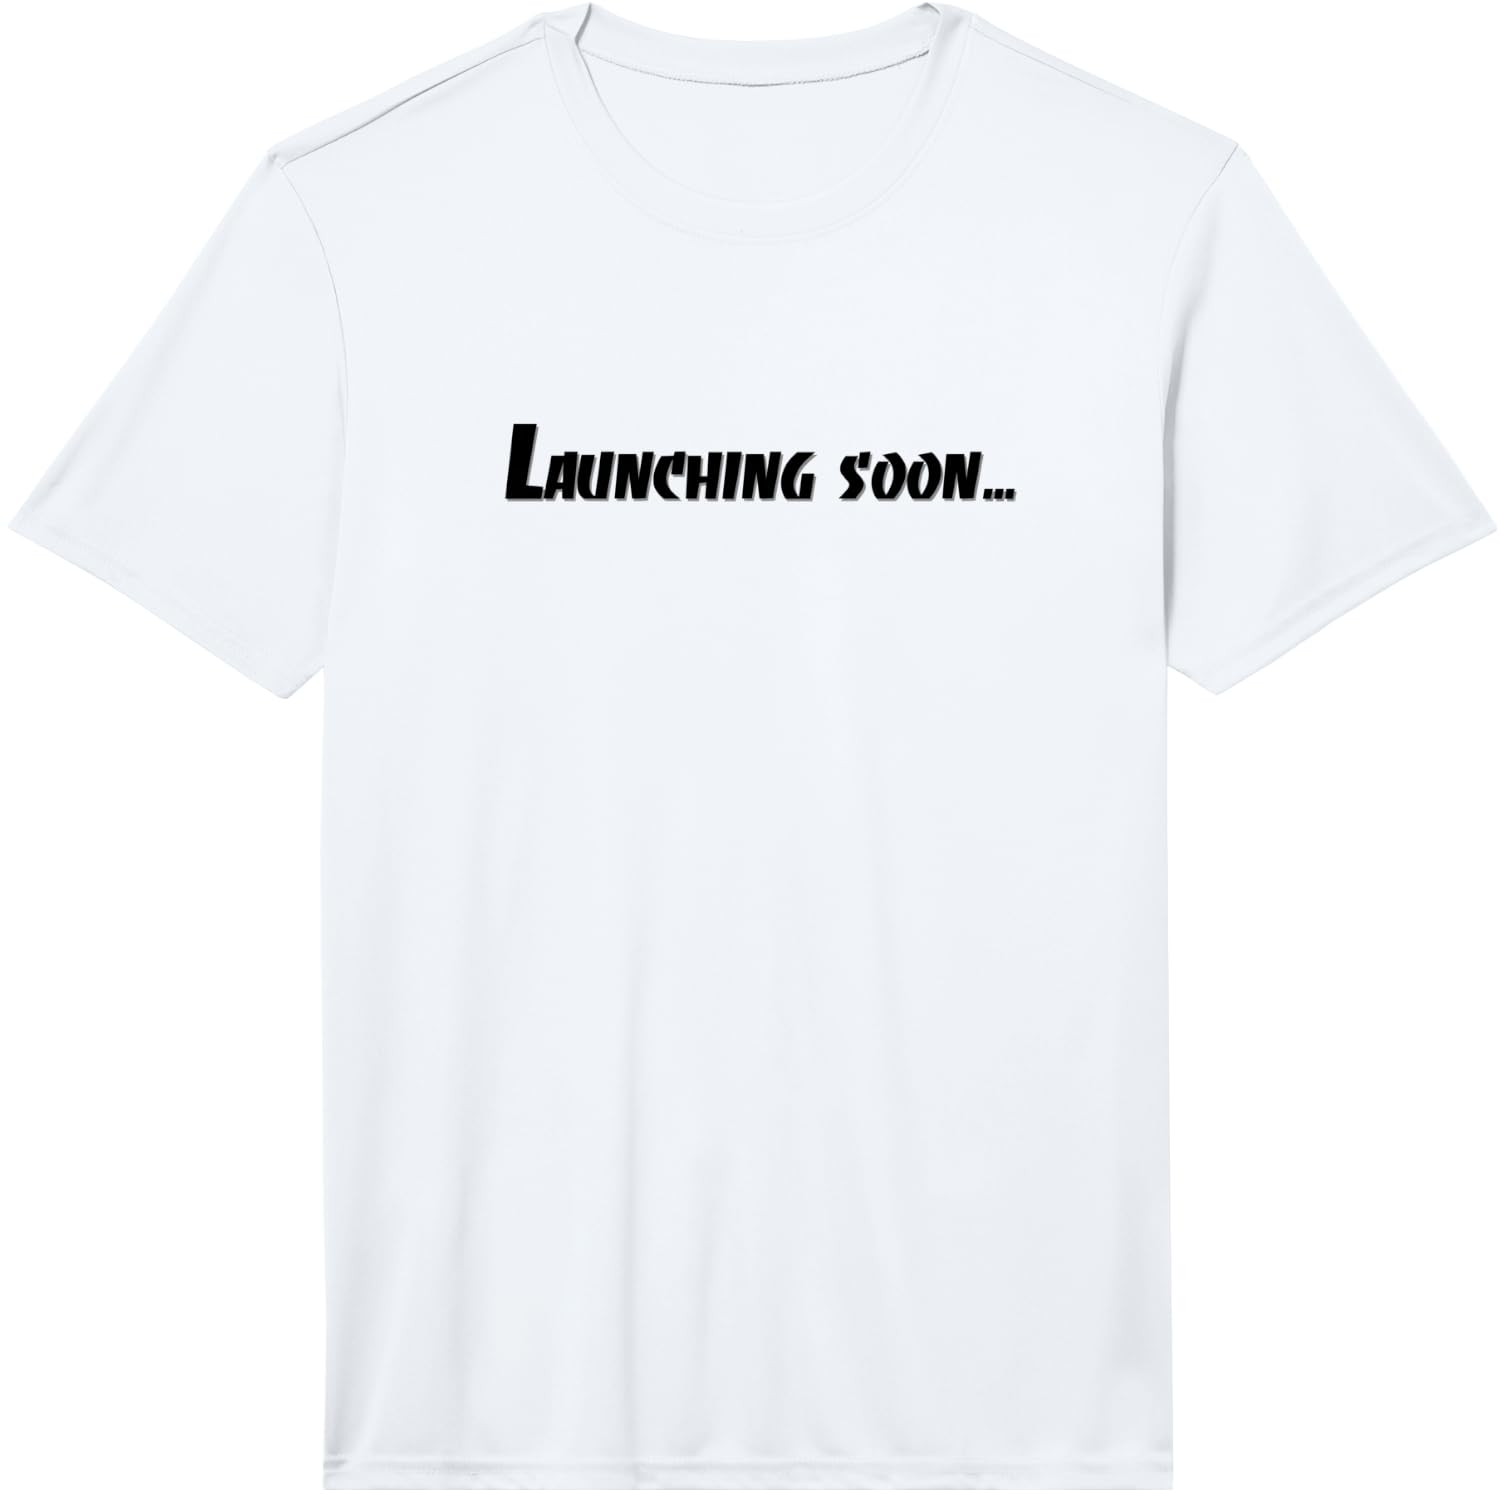
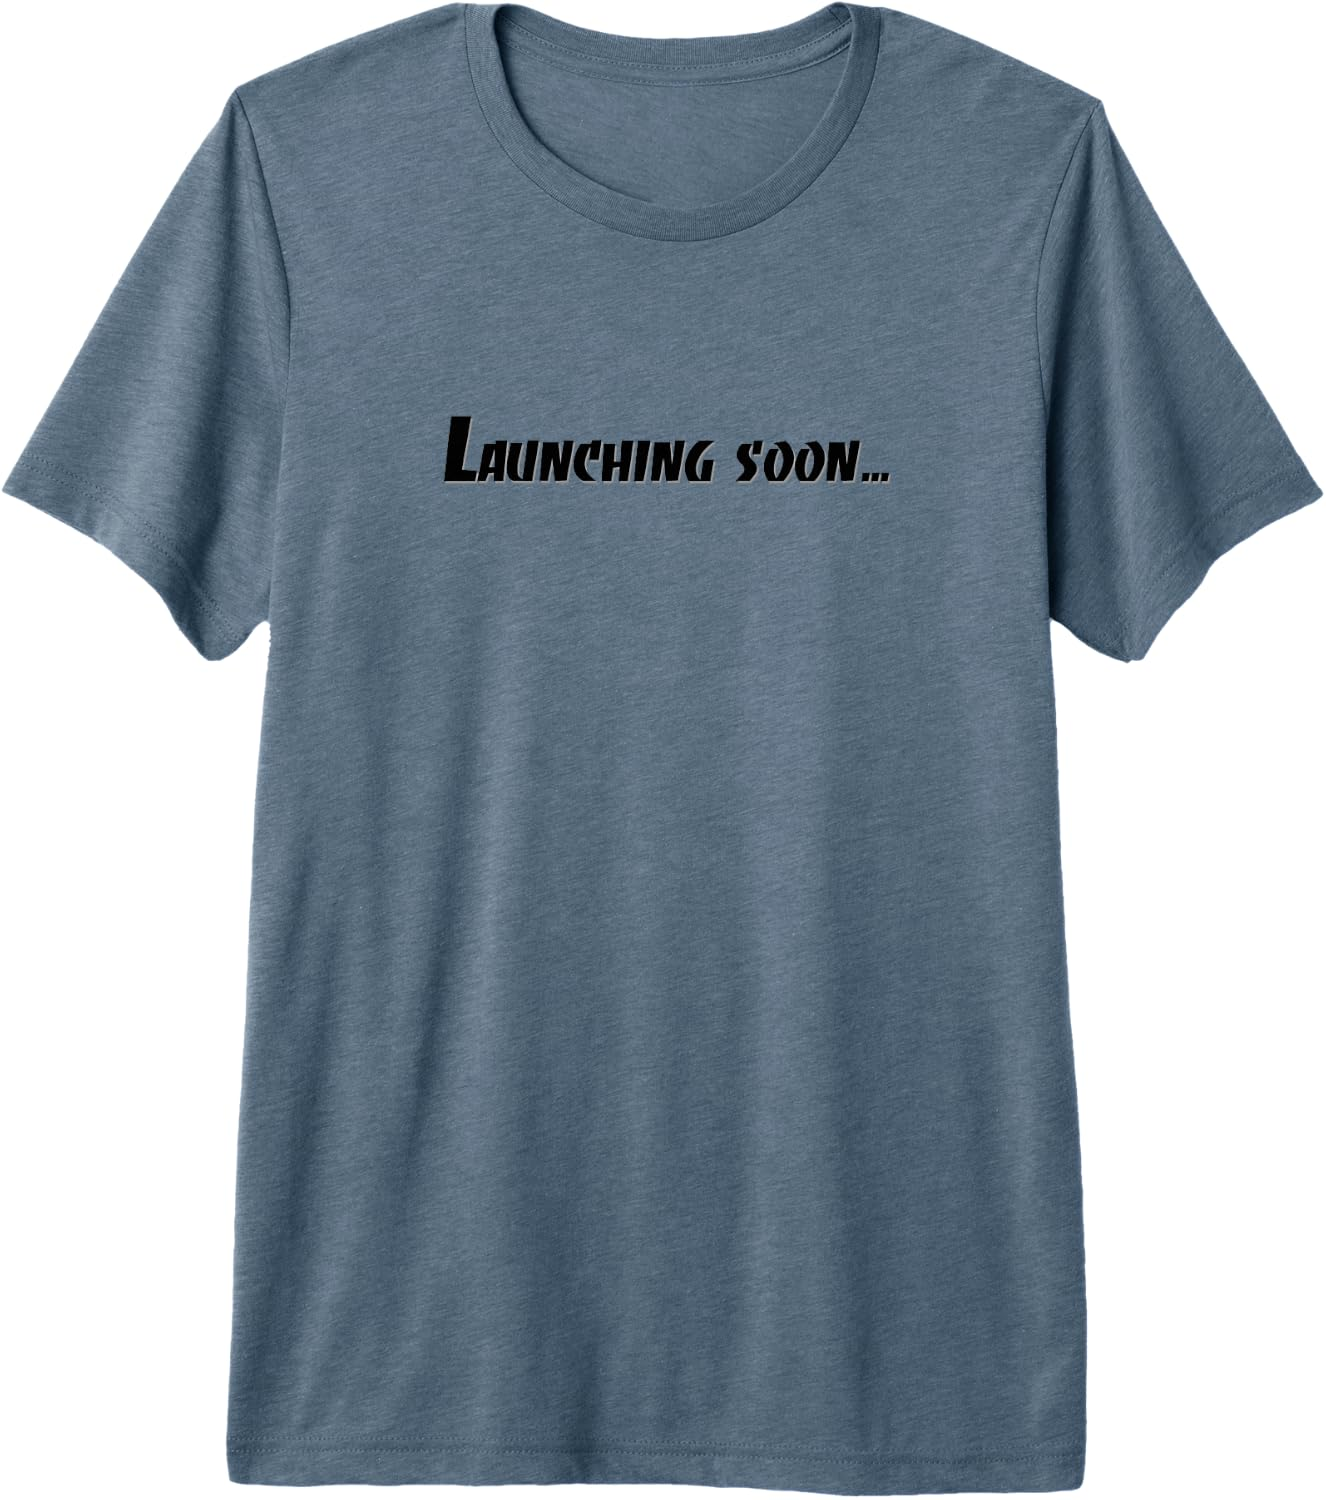
Update Launching Soon product link and mockup to B0HJHHBFGL

diff --git a/merch/index.md b/merch/index.md
@@ -60,7 +60,7 @@ hero_image: /assets/images/paragliding_plains_cloudscape.jpg
 
   <!-- Launching Soon -->
   <div class="card" style="padding: 0; overflow: hidden;">
-    <a href="https://www.amazon.com/dp/B0HH9X5HZF" target="_blank" rel="noopener" style="display: block; text-decoration: none !important;">
+    <a href="https://www.amazon.com/Launching-Graphic-Premium-Tri-Blend-T-Shirt/dp/B0HJHHBFGL" target="_blank" rel="noopener" style="display: block; text-decoration: none !important;">
       <div style="display: flex; align-items: center; justify-content: center; height: 260px; background: #ffffff;">
         <img
           src="{{ '/assets/images/launching_soon_shirt.png' | relative_url }}"
@@ -70,12 +70,12 @@ hero_image: /assets/images/paragliding_plains_cloudscape.jpg
       </div>
     </a>
     <div style="padding: 1.25rem;">
-      <div style="font-size: 0.75rem; text-transform: uppercase; font-weight: 700; color: var(--text-muted); margin-bottom: 0.35rem;">Pilots & Builders · Performance Tee</div>
-      <h3 style="margin: 0 0 0.75rem 0; font-size: 1.15rem; line-height: 1.35;">Launching Soon Graphic Design Performance T-Shirt</h3>
+      <div style="font-size: 0.75rem; text-transform: uppercase; font-weight: 700; color: var(--text-muted); margin-bottom: 0.35rem;">Pilots & Builders · Premium Tri-Blend</div>
+      <h3 style="margin: 0 0 0.75rem 0; font-size: 1.15rem; line-height: 1.35;">Launching Soon Graphic Design Premium Tri-Blend T-Shirt</h3>
       <p style="font-size: 0.9rem; color: var(--text-muted); margin-bottom: 1rem;">
         Bold comic-book typography reading "LAUNCHING SOON..." with drop shadows and forward momentum. A clever double-meaning for paraglider and hang glider pilots waiting for the right window — and startup founders working on their next big thing.
       </p>
-      <a href="https://www.amazon.com/dp/B0HH9X5HZF" target="_blank" rel="noopener" class="btn btn-primary" style="width: 100%; text-align: center; display: block; box-sizing: border-box;">
+      <a href="https://www.amazon.com/Launching-Graphic-Premium-Tri-Blend-T-Shirt/dp/B0HJHHBFGL" target="_blank" rel="noopener" class="btn btn-primary" style="width: 100%; text-align: center; display: block; box-sizing: border-box;">
         View on Amazon →
       </a>
     </div>
